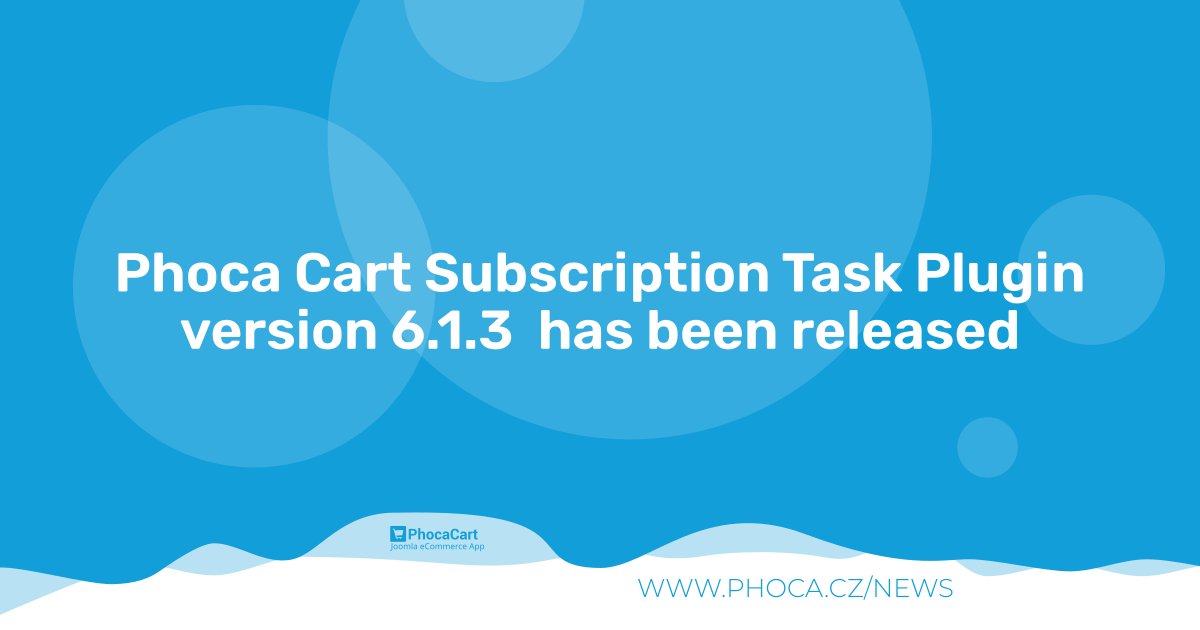
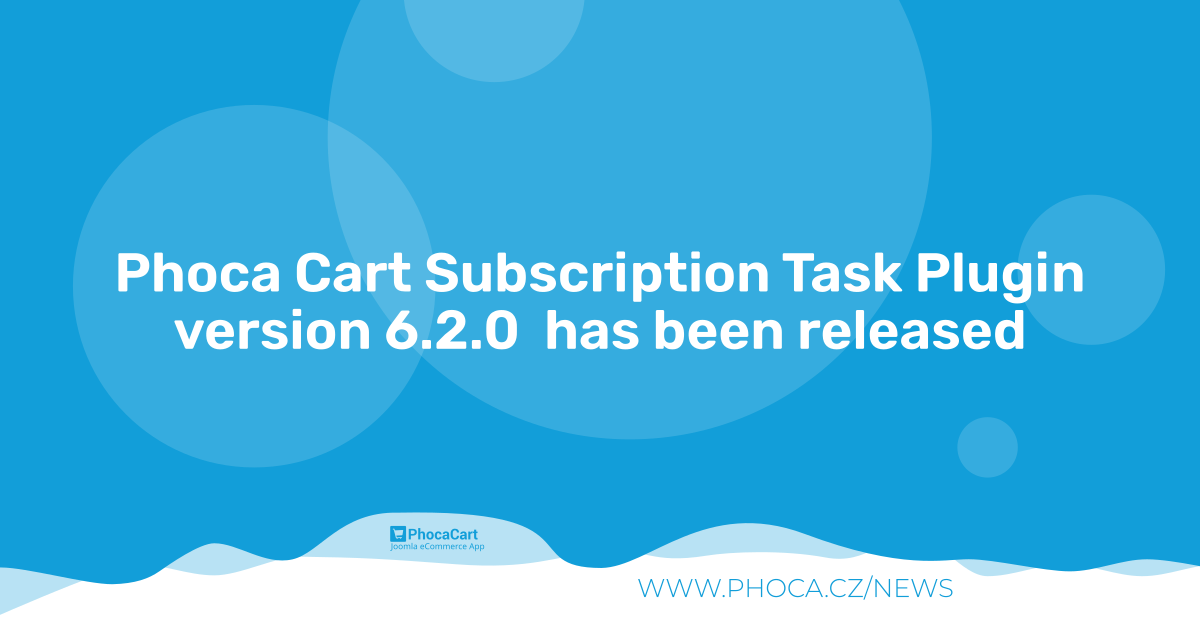
6.2.0

Changed region(s): [[0.1233, 0.4825, 0.8633, 0.573]]

diff --git a/README.MD b/README.MD
@@ -1,77 +1,81 @@
-
-
-
-
 ![Phoca Cart Subscription Task Plugin](https://github.com/PhocaCz/PhocaCartSubscriptionTaskPlugin/blob/main/phocacartsubscription.png?raw=true)
 
 # Phoca Cart Subscription Task Plugin
 
-
+## Phoca Cart Subscription Task Plugin — Community-Driven Extension for Joomla CMS
 
 Phoca Cart Subscription Task Plugin - subscription Phoca Cart task plugin.
 
+### Free and Open Source Software (FOSS) Declaration
+
+This project is developed, distributed, and maintained strictly as **Free and Open Source Software (FOSS)**. It is provided entirely outside the course of any commercial activity as an independent public resource.
+
+Our compliance with the principles of free and open-source software is established by the following structural and operational guidelines:
+
+* **Strictly Non-Commercial & Public Good:** This software is provided 100% free of charge. No commercial entities control or fund this repository, and there are no commercial monetization models, paid subscriptions, or premium paywalls associated with this codebase.
+* **Independent Volunteer Contributions:** The development, maintenance, and testing of this extension are driven entirely by independent, voluntary contributions from the global community.
+* **No Commercial Technical Support:** Technical support is not provided as a paid commercial service by the maintainers of this repository. Community assistance is available on a voluntary, non-binding basis via public forums.
+* **No Proprietary Lock-in:** The software is licensed under the copyleft GNU General Public License (GPL). You have absolute freedom to run, study, share, modify, and redistribute the code.
+* **Decentralized Infrastructure:** This codebase is hosted in a public, transparent repository on GitHub to foster open collaborative development and public peer review, ensuring safety and quality through community vigilance.
+
+*This repository is a shared community resource dedicated to the global open-source ecosystem.*
+
+### Community Feedback & Contributions
+
+We welcome your feedback and active involvement. You can join the development and follow the progress on public, independent GitHub pages at [https://github.com/PhocaCz](https://github.com/PhocaCz).
+Any feedback, bug reports, feature suggestions, or code improvements can be submitted transparently via **GitHub Issues** or **Pull Requests** within the respective repository.
+
+### Accompanying External Resources
+
+If you need additional information beyond this GitHub repository, further documentation, updates, and community channels are available on the following external websites:
+
+#### External Project Information
+
+- [Phoca Cart Subscription Task Plugin](https://www.phoca.cz/phocacart)
+- [Phoca Cart Info Page](https://www.phoca.cz/project/phocacart-joomla-ecommerce)
+- [Project is listed on Joomla Extensions Directory](https://extensions.joomla.org/)
+- [Project is listed on Phoca download directory](https://www.phoca.cz/download)
 
 
-## Project page
+#### External Documentation
 
-[Phoca Cart Subscription Task Plugin](https://www.phoca.cz/phocacart)
-
-[Phoca Cart Info Page](https://www.phoca.cz/project/phocacart-joomla-ecommerce)
+- [Documentation](https://www.phoca.cz/documentation/category/115-phoca-cart)
 
 
+#### External Community Support
 
-## Documentation
-
-[Documentation](https://www.phoca.cz/documentation/category/115-phoca-cart)
-
-
-
-
-
-## Support
-
-[Phoca Forum](https://www.phoca.cz/forum)
-
-:bell: [Phoca Forum RSS](https://www.phoca.cz/forum/app.php/feed)
+- [Phoca Forum](https://www.phoca.cz/forum)
+- [Joomla Forum](https://forum.joomla.org/)
+- [Joomlaportal.cz Forum - Czech](https://www.joomlaportal.cz/forum)
+- [Joomla.de Supportforum - German](https://forum.joomla.de/)
+- :bell: [Phoca Forum RSS](https://www.phoca.cz/forum/app.php/feed)
 
 
+#### External News & Feeds
 
-## News
-
-[Phoca News](https://www.phoca.cz/news)
-
-:bell: [Phoca News RSS](https://www.phoca.cz/news?format=feed&type=rss)
-
-:bell: [Phoca Latest Releases RSS](https://www.phoca.cz/download/feed/111?format=feed&type=rss)
+- [Phoca News](https://www.phoca.cz/news)
+- [Joomlaportal.cz News](https://www.joomlaportal.cz/novinky)
+- :bell: [Phoca News RSS](https://www.phoca.cz/news?format=feed&type=rss)
+- :bell: [Phoca Latest Releases RSS](https://www.phoca.cz/download/feed/111?format=feed&type=rss)
 
 
+#### Demo
 
-## Demo
+- [Joomla! - Phoca Cart Demo](https://www.phoca.cz/phocacartdemo/)
 
-[Joomla! - Phoca Cart Demo](https://www.phoca.cz/phocacartdemo/)
+### Version (Joomla! 6.x)
+6.2.0
 
-
-
-
-
-## License
+### License
 
 GNU/GPL
 
-
-
 This project is open source project - feel free to contribute! Thank you.
 
-
-
-## Social Media
+### Social Media
 
 - [Phoca on Facebook](https://www.facebook.com/Phoca.cz)
-
 - [Phoca on X (Twitter)](https://twitter.com/PhocaCz)
-
 - [Phoca on YouTube](https://www.youtube.com/user/phocavideos)
-
 - [Phoca on GitHub](https://github.com/PhocaCz)
-
 - [Phoca on Reddit](https://www.reddit.com/user/PhocaCz)

diff --git a/FOSS.md b/FOSS.md
@@ -1,0 +1,13 @@
+Free and Open Source Software (FOSS) Declaration
+
+This project is developed, distributed, and maintained strictly as **Free and Open Source Software (FOSS)**. It is provided entirely outside the course of any commercial activity as an independent public resource.
+
+Our compliance with the principles of free and open-source software is established by the following structural and operational guidelines:
+
+* **Strictly Non-Commercial & Public Good:** This software is provided 100% free of charge. No commercial entities control or fund this repository, and there are no commercial monetization models, paid subscriptions, or premium paywalls associated with this codebase.
+* **Independent Volunteer Contributions:** The development, maintenance, and testing of this extension are driven entirely by independent, voluntary contributions from the global community.
+* **No Commercial Technical Support:** Technical support is not provided as a paid commercial service by the maintainers of this repository. Community assistance is available on a voluntary, non-binding basis via public forums.
+* **No Proprietary Lock-in:** The software is licensed under the copyleft GNU General Public License (GPL). You have absolute freedom to run, study, share, modify, and redistribute the code.
+* **Decentralized Infrastructure:** This codebase is hosted in a public, transparent repository on GitHub to foster open collaborative development and public peer review, ensuring safety and quality through community vigilance.
+
+*This repository is a shared community resource dedicated to the global open-source ecosystem.*
